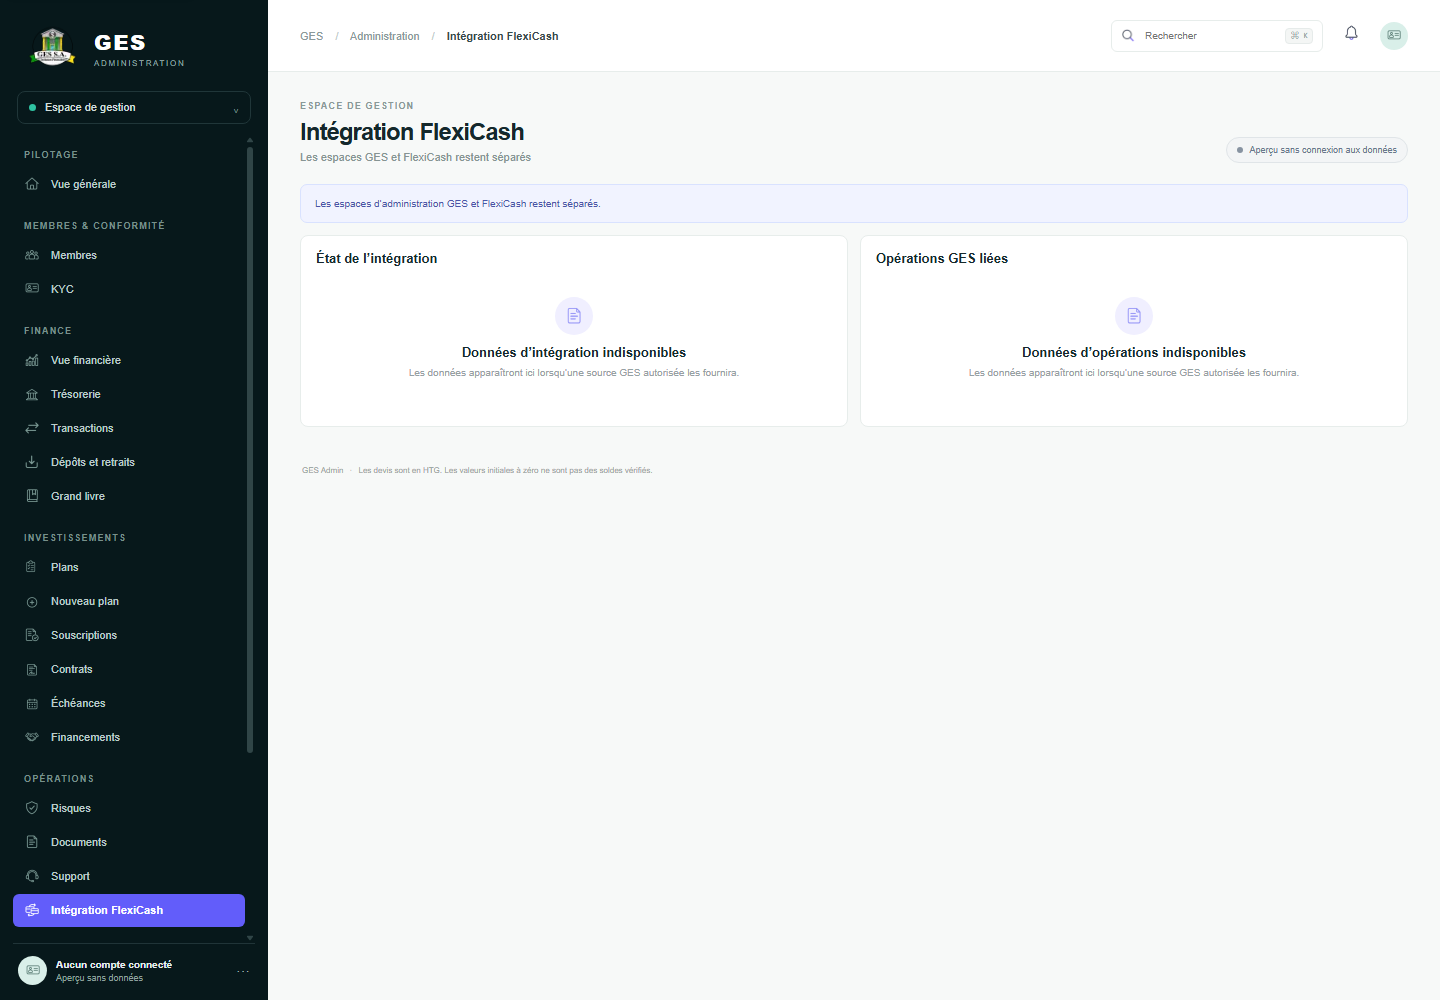
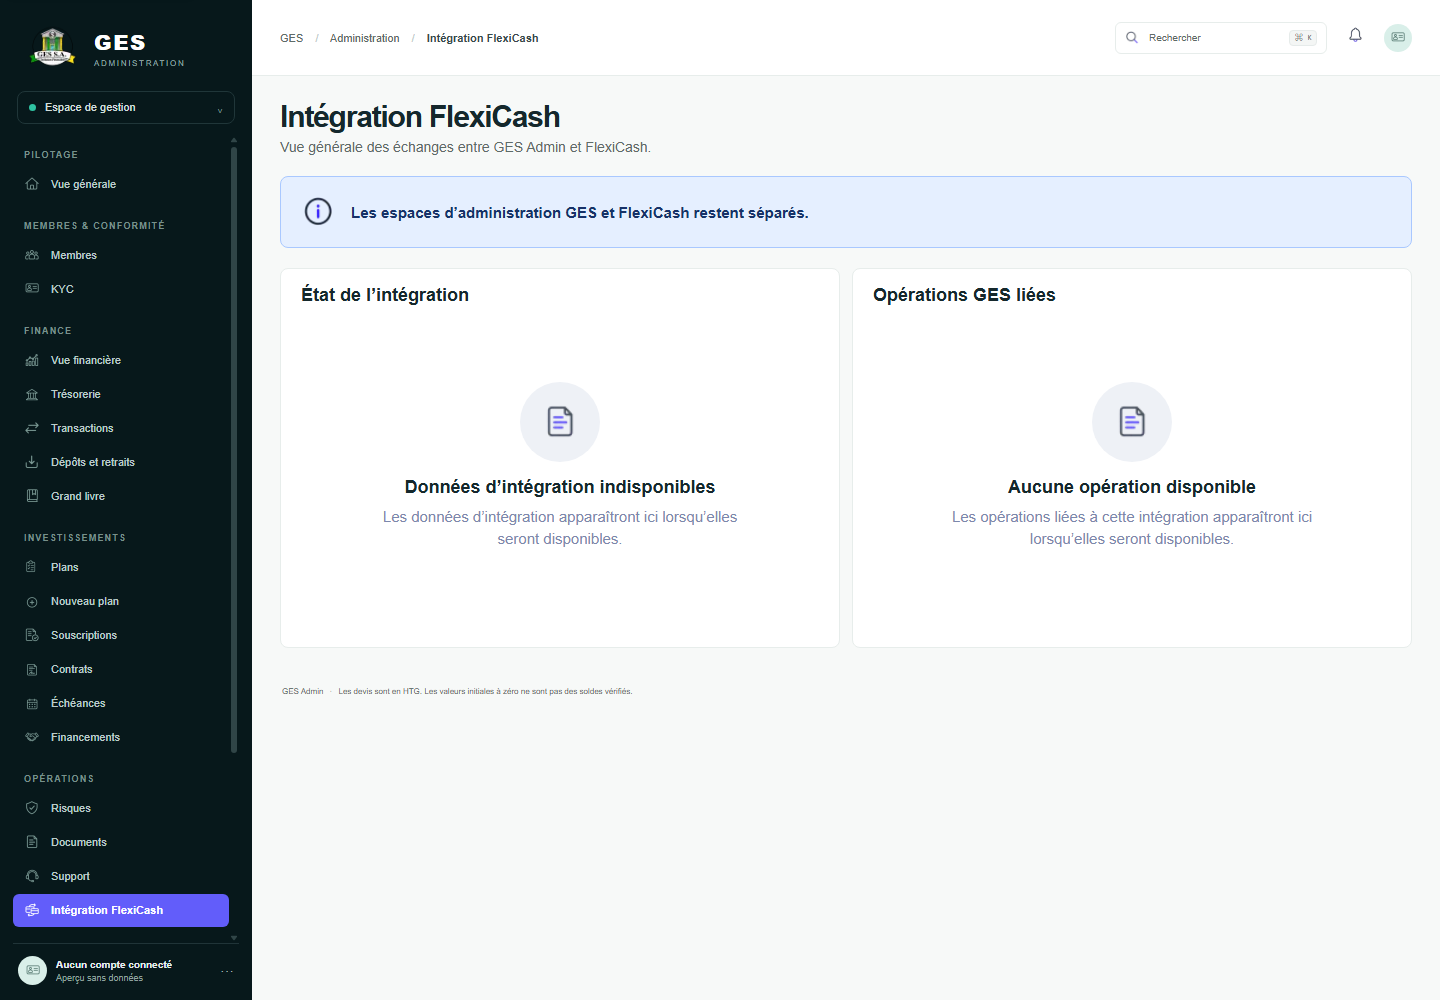
Align FlexiCash integration with MF-32

diff --git a/components/admin-shell.tsx b/components/admin-shell.tsx
@@ -26,7 +26,7 @@ const pages: Record<string, { title: string; subtitle: string }> = {
   "vue-financiere": { title: "Vue financière générale", subtitle: "Aperçu de la position financière de GES Admin en HTG et USD." }, tresorerie: { title: "Trésorerie", subtitle: "Positions de trésorerie" }, transactions: { title: "Transactions", subtitle: "Consultez et gérez l’ensemble des transactions." },
   "depots-retraits": { title: "Dépôts et retraits", subtitle: "Suivi des mouvements entrants et sortants" }, "grand-livre": { title: "Grand livre et rapprochement", subtitle: "Consultation du grand livre comptable et rapprochement des soldes." }, plans: { title: "Catalogue des plans d’investissement", subtitle: "Vue d’ensemble des plans d’investissement autorisés sur GES Admin." },
   souscriptions: { title: "Souscriptions", subtitle: "Vue d’ensemble des souscriptions effectuées sur GES Admin." }, contrats: { title: "Contrats d’investissement", subtitle: "Liste des contrats d’investissement enregistrés dans GES Admin." }, echeances: { title: "Échéances et distributions", subtitle: "Suivi des échéances et des distributions de capital et d’intérêts." }, financements: { title: "Financements GES", subtitle: "Gestion des dossiers de financement du GES Admin." }, "plans/nouveau": { title: "Nouveau plan d’investissement", subtitle: "Créer un nouveau plan d’investissement (brouillon)." },
-  risques: { title: "Risques et alertes", subtitle: "Surveillance des risques et des alertes de GES Admin." }, documents: { title: "Documents et notifications", subtitle: "Consultez les documents et les notifications de GES Admin." }, support: { title: "Assistance et tickets", subtitle: "Liste des demandes d’assistance et de support de GES Admin." }, rapports: { title: "Rapports et analyses", subtitle: "Analysez l’activité de GES Admin grâce à des rapports et des visualisations." }, equipe: { title: "Équipe et administrateurs", subtitle: "Gestion des administrateurs et de leurs permissions dans GES Admin." }, audit: { title: "Audit administratif", subtitle: "Journal des événements administratifs de GES Admin." }, parametres: { title: "Paramètres GES", subtitle: "Configuration générale et préférences organisationnelles." }, notifications: { title: "Notifications", subtitle: "Centre de notifications administratives" }, "roles-permissions": { title: "Rôles et permissions", subtitle: "Gestion des rôles et des permissions dans GES Admin." }, "integrations-flexicash": { title: "Intégration FlexiCash", subtitle: "Les espaces GES et FlexiCash restent séparés" },
+  risques: { title: "Risques et alertes", subtitle: "Surveillance des risques et des alertes de GES Admin." }, documents: { title: "Documents et notifications", subtitle: "Consultez les documents et les notifications de GES Admin." }, support: { title: "Assistance et tickets", subtitle: "Liste des demandes d’assistance et de support de GES Admin." }, rapports: { title: "Rapports et analyses", subtitle: "Analysez l’activité de GES Admin grâce à des rapports et des visualisations." }, equipe: { title: "Équipe et administrateurs", subtitle: "Gestion des administrateurs et de leurs permissions dans GES Admin." }, audit: { title: "Audit administratif", subtitle: "Journal des événements administratifs de GES Admin." }, parametres: { title: "Paramètres GES", subtitle: "Configuration générale et préférences organisationnelles." }, notifications: { title: "Notifications", subtitle: "Centre de notifications administratives" }, "roles-permissions": { title: "Rôles et permissions", subtitle: "Gestion des rôles et des permissions dans GES Admin." }, "integrations-flexicash": { title: "Intégration FlexiCash", subtitle: "Vue d\u2019ensemble de l\u2019intégration entre GES Admin et FlexiCash." },
 };
 
 const detailPages: Record<string, { title: string; subtitle: string }> = {
@@ -148,7 +148,7 @@ export function AdminShell({ section }: { section: string }) {
     </aside>
     {menuOpen && <button className="drawer-backdrop visible" type="button" aria-label="Fermer le menu" tabIndex={-1} onClick={closeMenu}/>}
     <main className="main-area" id="main-content" tabIndex={-1} inert={menuOpen}><header className="topbar"><button ref={menuButtonRef} className="mobile-menu-toggle" onClick={() => menuOpen ? closeMenu() : setMenuOpen(true)} aria-label={menuOpen ? "Fermer le menu" : "Ouvrir le menu"} aria-expanded={menuOpen} aria-controls="primary-navigation">{menuOpen ? <Image src="/assets/icons/close.webp" alt="" width={19} height={19}/> : <span className="menu-bars" aria-hidden="true"/>}</button><div className="breadcrumb">GES <span>/</span> Administration <span>/</span> <b>{page.title}</b></div><div className="top-actions"><label className="search"><Image src="/assets/icons/search.webp" alt="" width={15} height={15}/><input placeholder="Rechercher" aria-label="Rechercher" value={searchQuery} onChange={(event) => setSearchQuery(event.target.value)}/><kbd>⌘ K</kbd></label><Link href="/admin/notifications" className="bell" aria-label="Notifications"><Image src="/assets/icons/notification.webp" alt="" width={19} height={19}/></Link><div className="top-avatar"><Image src="/assets/icons/identity.webp" alt="" width={16} height={16}/></div></div></header>
-      <div className={`content ${key === "plans/nouveau" ? "plan-content" : ""}`}>{key === "souscriptions/dossier" && <Link className="detail-back" href="/admin/souscriptions">← Retour aux souscriptions</Link>}{key === "contrats/dossier" && <Link className="detail-back" href="/admin/contrats">← Retour aux contrats</Link>}{key === "risques/incident" && <Link className="detail-back" href="/admin/risques">← Retour aux alertes</Link>}{key === "support/conversation" && <Link className="detail-back" href="/admin/support">← Retour aux tickets</Link>}<div className="page-heading"><div>{key !== "transactions" && key !== "souscriptions/dossier" && key !== "contrats/dossier" && key !== "risques/incident" && key !== "support/conversation" && key !== "documents" && key !== "rapports" && key !== "equipe" && key !== "roles-permissions" && key !== "audit" && key !== "parametres" && <div className="eyebrow">ESPACE DE GESTION</div>}<h1>{page.title}</h1>{page.subtitle && <p>{page.subtitle}</p>}</div><div className="heading-actions">{key === "rapports" && <div className="reports-page-filters"><button className="filter-button" disabled>Tous les rapports <span>⌄</span></button><button className="filter-button" disabled><Image src="/assets/icons/calendar.webp" alt="" width={16} height={16}/> Période non sélectionnée <span>⌄</span></button></div>}{key !== "souscriptions/dossier" && key !== "contrats/dossier" && key !== "risques/incident" && key !== "support/conversation" && key !== "documents" && key !== "rapports" && key !== "equipe" && key !== "roles-permissions" && key !== "audit" && key !== "parametres" && <span className="status-pill preview-pill"><i/> Aperçu sans connexion aux données</span>}</div></div>
+      <div className={`content ${key === "plans/nouveau" ? "plan-content" : ""}`}>{key === "souscriptions/dossier" && <Link className="detail-back" href="/admin/souscriptions">← Retour aux souscriptions</Link>}{key === "contrats/dossier" && <Link className="detail-back" href="/admin/contrats">← Retour aux contrats</Link>}{key === "risques/incident" && <Link className="detail-back" href="/admin/risques">← Retour aux alertes</Link>}{key === "support/conversation" && <Link className="detail-back" href="/admin/support">← Retour aux tickets</Link>}<div className="page-heading"><div>{key !== "transactions" && key !== "souscriptions/dossier" && key !== "contrats/dossier" && key !== "risques/incident" && key !== "support/conversation" && key !== "documents" && key !== "rapports" && key !== "equipe" && key !== "roles-permissions" && key !== "audit" && key !== "parametres" && key !== "integrations-flexicash" && <div className="eyebrow">ESPACE DE GESTION</div>}<h1>{page.title}</h1>{page.subtitle && <p>{page.subtitle}</p>}</div><div className="heading-actions">{key === "rapports" && <div className="reports-page-filters"><button className="filter-button" disabled>Tous les rapports <span>⌄</span></button><button className="filter-button" disabled><Image src="/assets/icons/calendar.webp" alt="" width={16} height={16}/> Période non sélectionnée <span>⌄</span></button></div>}{key !== "souscriptions/dossier" && key !== "contrats/dossier" && key !== "risques/incident" && key !== "support/conversation" && key !== "documents" && key !== "rapports" && key !== "equipe" && key !== "roles-permissions" && key !== "audit" && key !== "parametres" && key !== "integrations-flexicash" && <span className="status-pill preview-pill"><i/> Aperçu sans connexion aux données</span>}</div></div>
       {key === "notifications" ? <NotificationsWorkspace query={searchQuery} onQueryChange={setSearchQuery}/> : key === "plans/nouveau" ? <><Link href="/admin/plans" className="plan-back">← Retour aux plans</Link><PlanForm/></> : overview ? <>{financial && <div className="module-notice">Valeurs initiales — les montants affichés sont à confirmer et ne constituent pas des soldes vérifiés.</div>}<div className={`metric-grid ${financial ? "financial-metrics" : ""}`}>{metrics.map(([label,value,caption])=><MetricCard key={label} label={label} value={value} caption={caption}/>)}</div>
       {financial && <UsdUnavailable/>}
       <div className={`overview-grid ${financial ? "financial-overview-grid" : "command-overview-grid"}`}><section className="panel"><div className="panel-head"><div><h2>{financial ? "Tendance de trésorerie" : "Tendance financière"}</h2></div>{financial && <button className="select-button" disabled title="Les données sont indisponibles">Période⌄</button>}</div><div className="chart-empty"><div className="chart-lines"><span/><span/><span/><span/></div><div className="chart-message">Aucune donnée disponible</div></div></section><section className="panel breakdown"><div className="panel-head"><div><h2>{financial ? "Obligations à venir" : "Répartition des investissements"}</h2></div>{financial && <button className="dots" disabled aria-label="Options indisponibles">···</button>}</div>{financial ? <div className="donut-wrap"><p>Aucune donnée disponible</p></div> : <div className="donut-wrap"><div className="donut"><div/></div><p>Aucune donnée disponible</p></div>}</section></div>

diff --git a/app/globals.css b/app/globals.css
@@ -85,3 +85,4 @@ a:focus-visible,button:focus-visible,input:focus-visible,select:focus-visible,te
 .audit-list-panel .module-toolbar .filter-search{flex:2;min-width:0}.audit-list-panel .module-filter-row{flex:3}.audit-list-panel .module-filter-row .filter-button{min-width:0}
 .settings-unavailable-notice{min-height:72px;box-sizing:border-box;display:flex;align-items:center;gap:16px;padding:14px 20px;margin:0 0 20px;border:1px solid #a9c8ff;border-radius:8px;background:#e5efff;color:#2866db;font-size:16px}.settings-unavailable-notice img{width:34px;height:34px}.settings-card-grid{gap:12px;margin-bottom:14px}.settings-card{min-height:250px;padding:16px 20px}.settings-card>h2{margin:0;font:700 16px Arial,Helvetica,sans-serif}.settings-empty{min-height:190px;display:flex;align-items:center;justify-content:center;flex-direction:column;text-align:center;padding:10px}.settings-empty-icon{width:64px;height:64px;border-radius:50%;background:#eef1f6;display:grid;place-items:center;margin-bottom:10px}.settings-empty-icon img{width:30px;height:30px;opacity:.72}.settings-empty strong{font-size:15px}.settings-empty p{max-width:380px;margin:5px 0 0;color:#7c88ac;font-size:13px;line-height:1.5}.settings-save-panel{min-height:110px;padding:18px 20px;border-style:dashed}.settings-save-panel .primary-button{min-height:42px;display:inline-flex;align-items:center;gap:8px}.settings-save-panel .primary-button:disabled{background:#e8eaf0;color:#929fa1;border-color:#dfe3ed}.settings-save-panel .primary-button img{opacity:.55}.settings-save-panel p{margin:8px 0 0;color:#7c88ac;font-size:13px}@media(max-width:760px){.settings-unavailable-notice{min-height:62px;padding:12px;font-size:12px;gap:10px}.settings-unavailable-notice img{width:26px;height:26px}.settings-card{min-height:220px;padding:13px}.settings-card>h2{font-size:14px}.settings-empty{min-height:170px}.settings-empty p{font-size:11px}.settings-save-panel{padding:14px}.settings-save-panel p{font-size:11px}}
 .settings-card{min-height:278px}.settings-card-grid{gap:14px}
+.integration-separation-notice{min-height:72px;box-sizing:border-box;display:flex;align-items:center;gap:16px;padding:14px 20px;margin:0 0 20px;border:1px solid #a9c8ff;border-radius:8px;background:#e5efff;color:#173268;font-size:15px}.integration-separation-notice img{width:34px;height:34px}.integration-panels{gap:12px}.integration-card{min-height:380px;padding:16px 20px}.integration-card>h2{margin:0;font:700 18px Arial,Helvetica,sans-serif}.integration-empty{min-height:320px;display:flex;align-items:center;justify-content:center;flex-direction:column;text-align:center;padding:16px}.integration-empty .settings-empty-icon{width:80px;height:80px;margin-bottom:15px}.integration-empty .settings-empty-icon img{width:38px;height:38px}.integration-empty strong{font-size:18px}.integration-empty p{max-width:370px;margin:8px 0 0;color:#7c88ac;font-size:15px;line-height:1.5}@media(max-width:760px){.integration-separation-notice{min-height:62px;padding:12px;font-size:12px;gap:10px}.integration-separation-notice img{width:26px;height:26px}.integration-card{min-height:290px;padding:13px}.integration-card>h2{font-size:15px}.integration-empty{min-height:240px;padding:12px}.integration-empty .settings-empty-icon{width:64px;height:64px}.integration-empty strong{font-size:14px}.integration-empty p{font-size:12px}}

diff --git a/components/module-workspace.tsx b/components/module-workspace.tsx
@@ -86,7 +86,10 @@ if (sectionKey === "rapports") return <>
     <div className="module-settings-grid settings-card-grid">{["Profil de l’organisation", "Préférences financières", "Sécurité", "Notifications administratives"].map((title) => <section className="panel module-subpanel settings-card" key={title}><h2>{title}</h2><div className="settings-empty"><div className="settings-empty-icon"><Image src="/assets/icons/document.webp" alt="" width={28} height={28}/></div><strong>Données indisponibles</strong><p>Les paramètres seront disponibles après le branchement à une source autorisée.</p></div></section>)}</div>
     <section className="panel settings-save-panel"><button className="primary-button" disabled><Image src="/assets/icons/document.webp" alt="" width={18} height={18}/>Enregistrer les modifications</button><p>Modifications indisponibles sans contrat d’administration confirmé.</p></section>
   </>;
-  if (sectionKey === "integrations-flexicash") return <><div className="module-notice">Les espaces d’administration GES et FlexiCash restent séparés.</div><div className="module-two-panels"><section className="panel module-subpanel"><h2>État de l’intégration</h2><EmptyState title="Données d’intégration indisponibles" searching={false}/></section><section className="panel module-subpanel"><h2>Opérations GES liées</h2><EmptyState title="Données d’opérations indisponibles" searching={false}/></section></div></>;
+    if (sectionKey === "integrations-flexicash") return <>
+    <div className="integration-separation-notice"><Image src="/assets/icons/info.webp" alt="" width={28} height={28}/><strong>Les espaces d’administration GES et FlexiCash restent séparés.</strong></div>
+    <div className="module-two-panels integration-panels"><section className="panel module-subpanel integration-card"><h2>État de l’intégration</h2><div className="integration-empty"><div className="settings-empty-icon"><Image src="/assets/icons/document.webp" alt="" width={32} height={32}/></div><strong>Données d’intégration indisponibles</strong><p>Les données d’intégration apparaîtront ici lorsqu’elles seront disponibles.</p></div></section><section className="panel module-subpanel integration-card"><h2>Opérations GES liées</h2><div className="integration-empty"><div className="settings-empty-icon"><Image src="/assets/icons/document.webp" alt="" width={32} height={32}/></div><strong>Aucune opération disponible</strong><p>Les opérations liées à cette intégration apparaîtront ici lorsqu’elles seront disponibles.</p></div></section></div>
+  </>;
   if (!page) return <GenericTable sectionKey={sectionKey} page={{ description: "Données GES disponibles.", filters: ["Filtres", "Période"], columns: ["RÉFÉRENCE", "DESCRIPTION", "DATE", "STATUT", "MONTANT (HTG)"], empty: "Aucune donnée disponible" }} query={query} onQueryChange={onQueryChange} activeTab={activeTab} setActiveTab={setActiveTab}/>;
   return <GenericTable sectionKey={sectionKey} page={page} query={query} onQueryChange={onQueryChange} activeTab={activeTab} setActiveTab={setActiveTab}/>;
 }

diff --git a/design/qa/README.md b/design/qa/README.md
@@ -172,3 +172,4 @@ Captures MF-28 : admin-equipe-1440x1000.png et admin-equipe-390x844.png. Colonne
 Captures MF-29 : admin-roles-permissions-1440x1000.png et admin-roles-permissions-390x844.png. Onglets navigables vers le catalogue et la matrice; aucun role ou droit n'est preconfigure. Les decisions effectives restent sous controle serveur.
 Captures MF-30 : admin-audit-1440x1000.png et admin-audit-390x844.png. Recherche et filtres sont visibles, sans date preselectionnee. Le journal reste vide sans evenement autorise; aucun acteur, horodatage ou resultat n'est invente.
 Captures MF-31 : admin-parametres-1440x1000.png et admin-parametres-390x844.png. Les quatre groupes restent indisponibles sans source autorisee; Enregistrer est desactive sans contrat confirme. Aucun taux, devise ou reglage fictif.
+Captures MF-32 : admin-integrations-flexicash-1440x1000.png et admin-integrations-flexicash-390x844.png. Seules les donnees d’integration et operations GES sont prevues; aucun controle interne FlexiCash, compte, webhook, statut ou transaction fictif.
